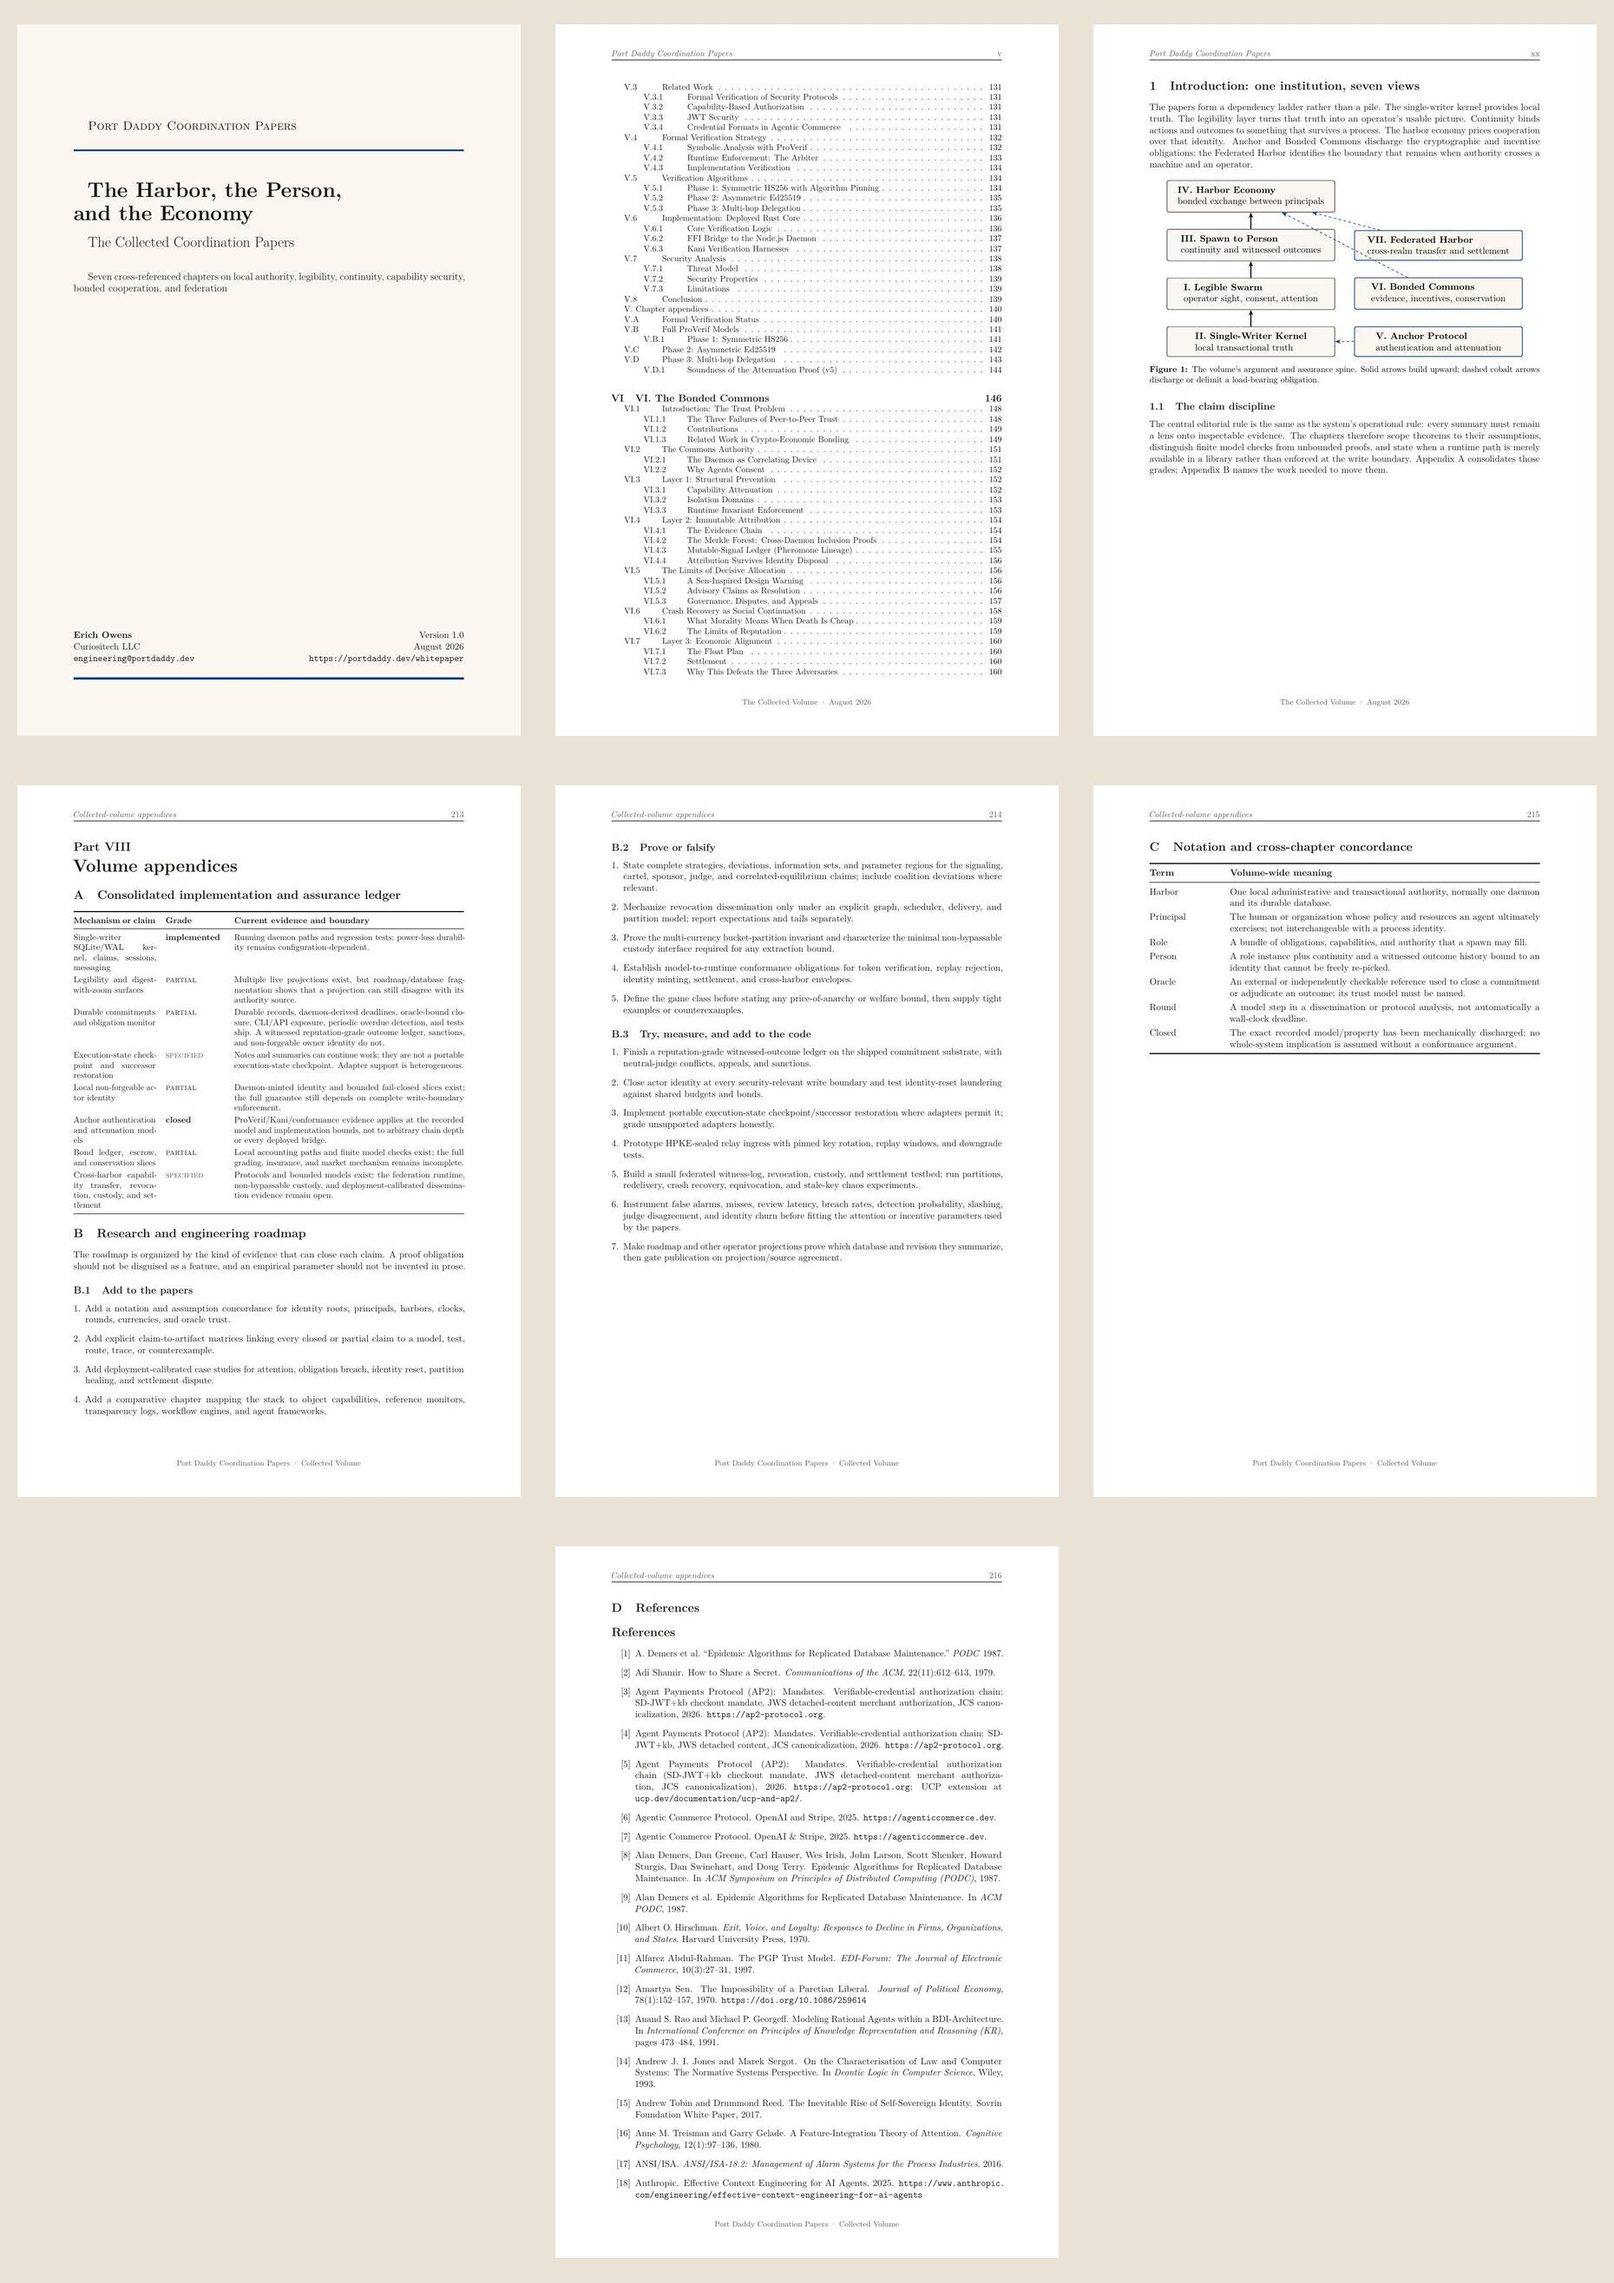
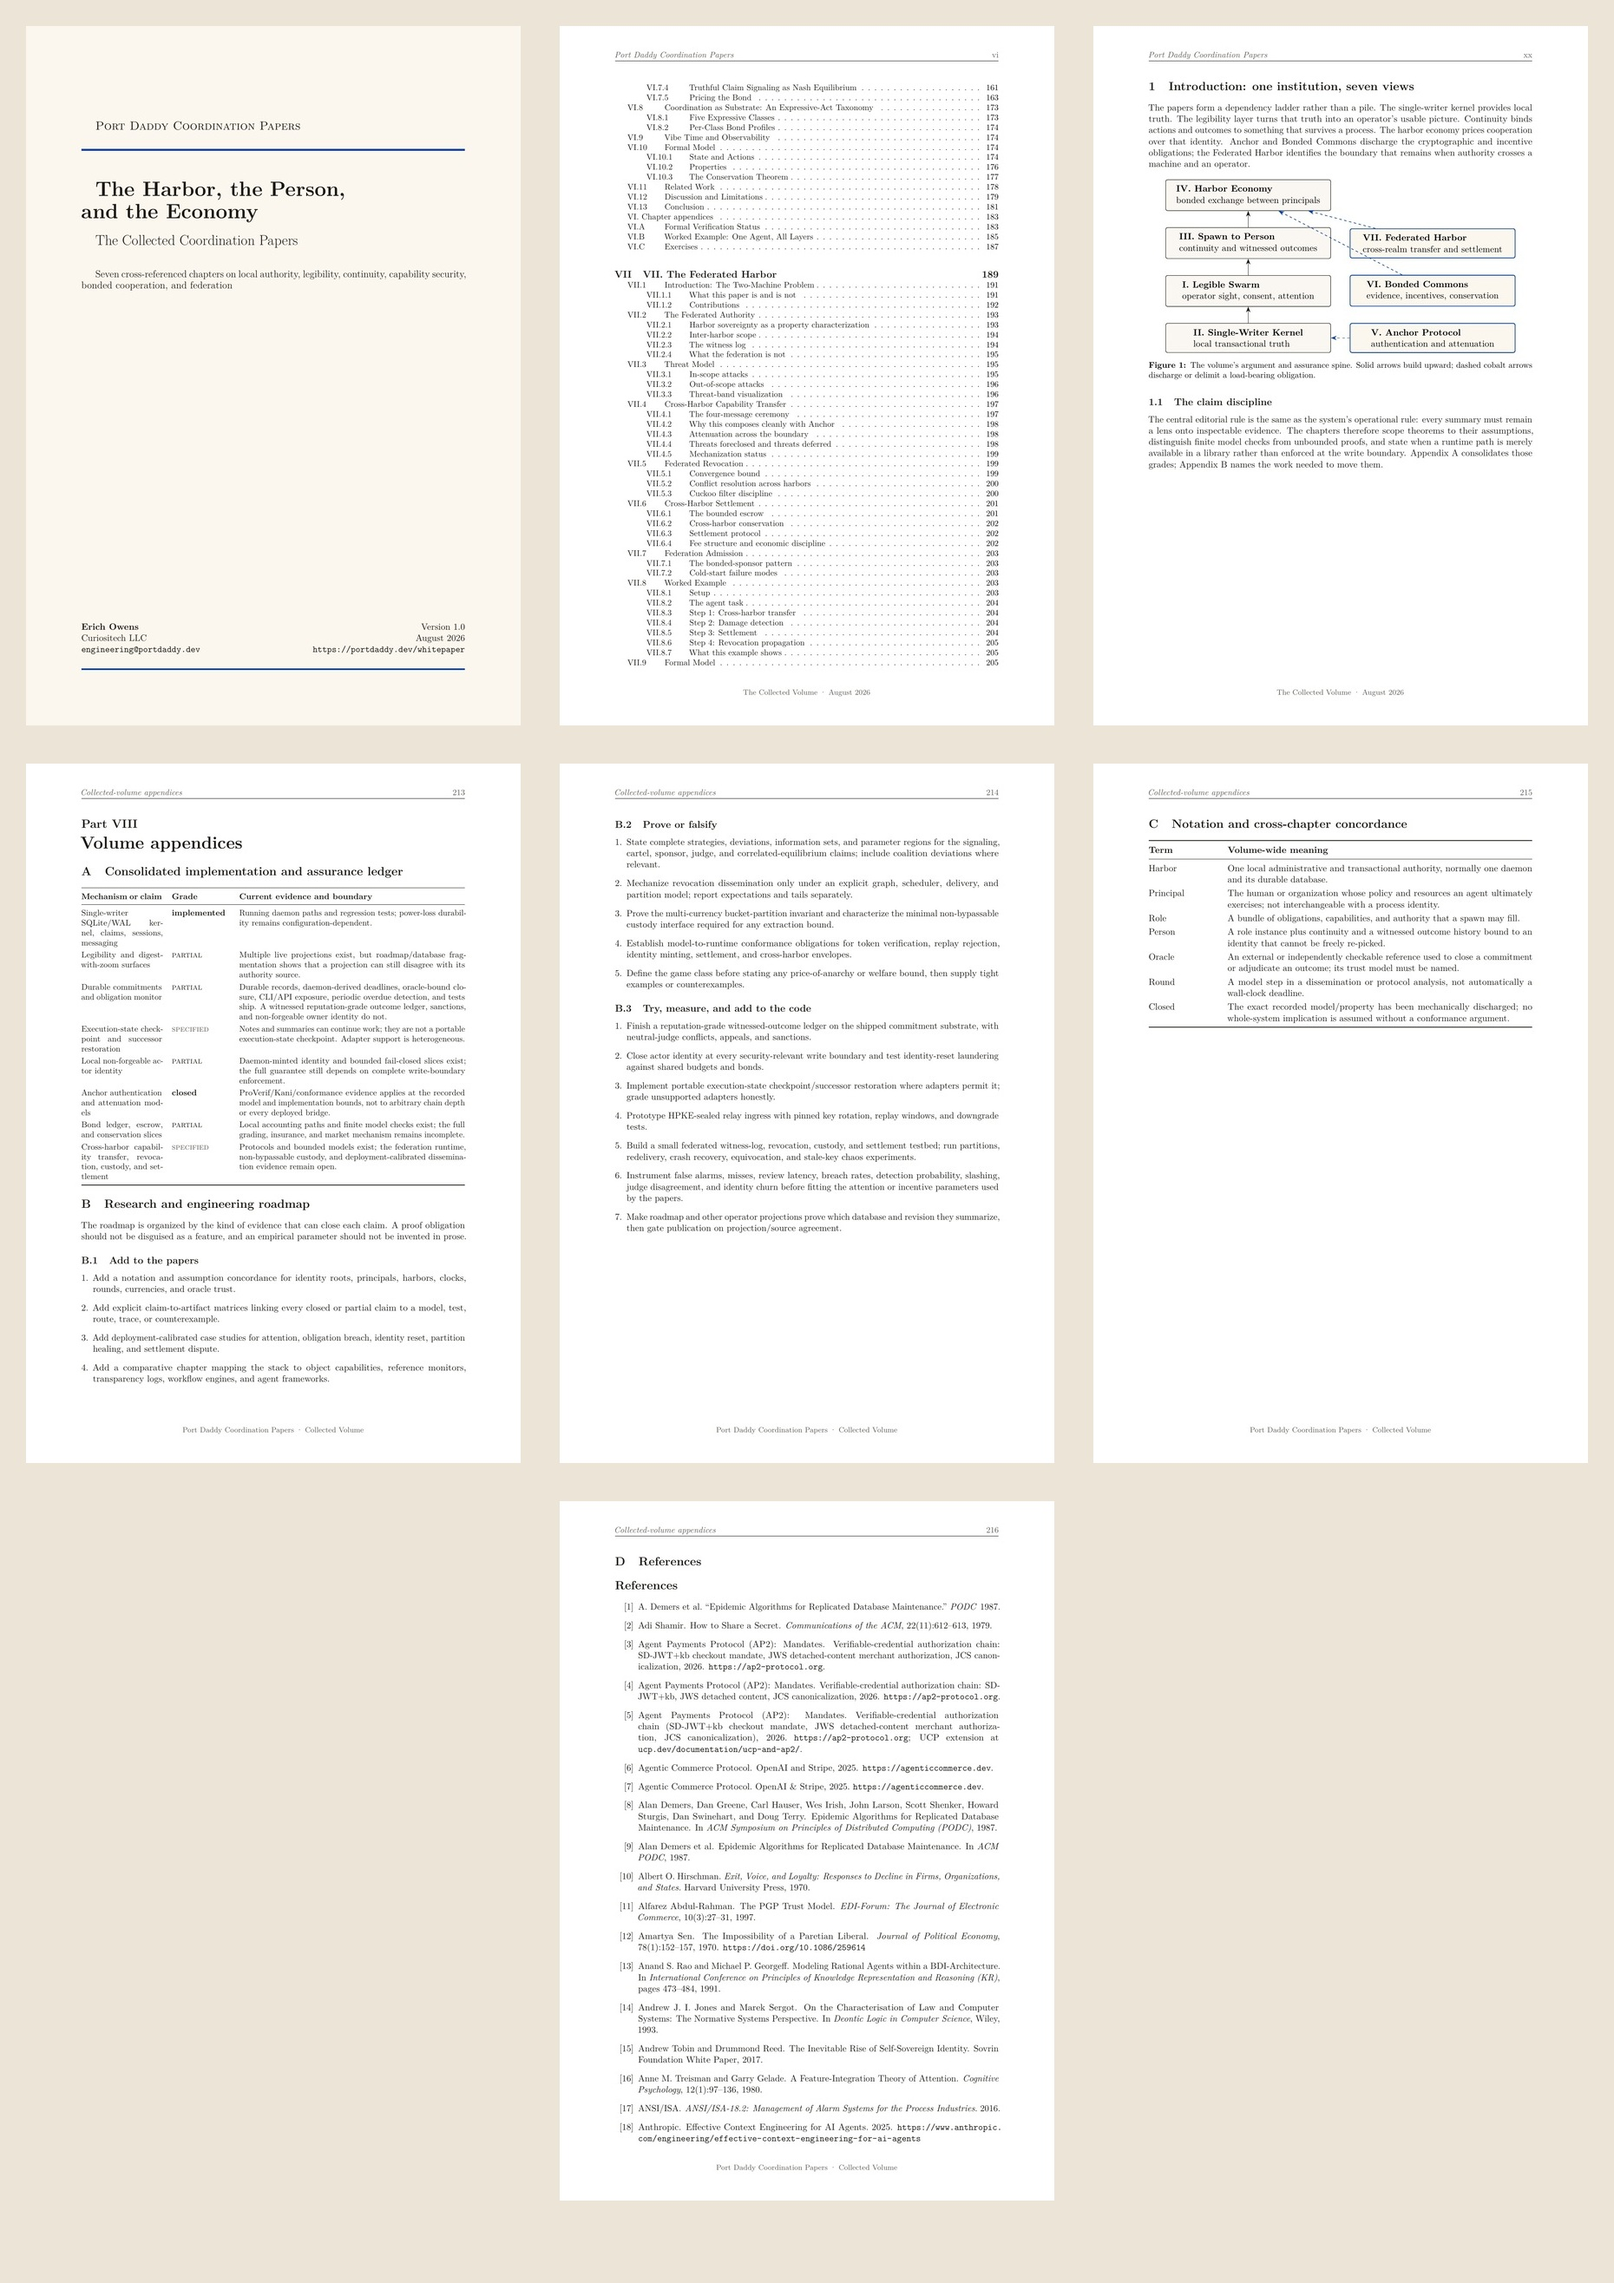
docs(whitepaper): publish collected-volume catalog and roadmap

Changed region(s): [[0.0, 0.0, 0.9978, 0.9973], [0.0624, 0.0623, 0.2183, 0.1247], [0.5925, 0.0312, 0.6237, 0.2805]]

diff --git a/website-v2/src/pages/library/index.tsx b/website-v2/src/pages/library/index.tsx
@@ -15,12 +15,12 @@ import {
   PanelTitle,
 } from '@/components/site/primitives'
 import {
+  COLLECTED_VOLUME,
   EXPLAIN_PAPERS,
   LIBRARY_CHANGELOG,
   LIBRARY_SPINE,
   PROVE_PAPERS,
   READING_PATHS,
-  WHITE_PAPERS,
   findWhitePaperByChapter,
   type WhitePaper,
 } from '@/data/whitePapers'
@@ -163,8 +163,6 @@ function GroupHeading({
 }
 
 export default function LibraryPage() {
-  const totalPages = WHITE_PAPERS.reduce((sum, paper) => sum + paper.pages, 0)
-
   return (
     <motion.div
       initial={{ opacity: 0 }}
@@ -198,7 +196,7 @@ export default function LibraryPage() {
                   {[
                     { value: '04', label: 'chapters explain' },
                     { value: '03', label: 'chapters prove' },
-                    { value: String(totalPages), label: 'pages, free PDFs' },
+                    { value: String(COLLECTED_VOLUME.pages), label: 'pages, collected PDF' },
                   ].map((stat) => (
                     <div key={stat.label} className="space-y-[var(--space-1)]">
                       <div className="font-mono text-[length:var(--text-2xl)] font-black leading-none text-[var(--text-primary)]">
@@ -210,6 +208,32 @@ export default function LibraryPage() {
                     </div>
                   ))}
                 </div>
+
+                <a
+                  href={COLLECTED_VOLUME.pdfPath}
+                  download
+                  className="group grid gap-[var(--space-3)] border-2 border-[var(--border-strong)] bg-[var(--brand-primary)] p-[var(--space-5)] text-[var(--brand-primary-foreground)] shadow-[var(--shadow-brutal)] transition-transform hover:-translate-y-1 focus-visible:outline-2 focus-visible:outline-offset-3 focus-visible:outline-[var(--interactive-focus)] sm:grid-cols-[auto,1fr,auto] sm:items-center"
+                >
+                  <span className="grid h-12 w-12 place-items-center border-2 border-current">
+                    <FileText aria-hidden="true" size={24} />
+                  </span>
+                  <span className="grid gap-[var(--space-1)]">
+                    <span className="font-sans text-[length:var(--type-meta-size)] font-black uppercase tracking-[var(--tracking-meta)]">
+                      Download the collected volume
+                    </span>
+                    <span className="font-display text-[length:var(--text-xl)] font-black leading-[var(--leading-nav)]">
+                      {COLLECTED_VOLUME.title}
+                    </span>
+                    <span className="font-mono text-[length:var(--type-meta-size)] font-semibold uppercase tracking-[var(--tracking-meta)]">
+                      {COLLECTED_VOLUME.pages} pages · {COLLECTED_VOLUME.references} collated references · PDF
+                    </span>
+                  </span>
+                  <ArrowDownRight
+                    aria-hidden="true"
+                    size={24}
+                    className="transition-transform group-hover:translate-x-1 group-hover:translate-y-1"
+                  />
+                </a>
 
                 <div className="flex flex-wrap gap-[var(--space-3)]">
                   <a

diff --git a/website-v2/src/data/whitePapers.ts b/website-v2/src/data/whitePapers.ts
@@ -155,6 +155,30 @@ export interface WhitePaper {
   takeaways: Array<{ title: string; body: string }>
 }
 
+/** The bound edition is a collection of the seven chapters, not an eighth paper. */
+export interface CollectedVolume {
+  id: string
+  title: string
+  subtitle: string
+  pdfPath: string
+  date: string
+  pages: number
+  sizeKb: number
+  references: number
+}
+
+export const COLLECTED_VOLUME: CollectedVolume = {
+  id: 'coordination-papers-mega-volume',
+  title: 'The Port Daddy Coordination Papers',
+  subtitle:
+    'Seven chapters in one coherent volume, with a global introduction, collated contents and references, implementation ledger, notation concordance, and research roadmap.',
+  pdfPath: '/whitepaper/coordination-papers-mega-volume.pdf',
+  date: 'August 2026',
+  pages: 247,
+  sizeKb: 2349,
+  references: 202,
+}
+
 /**
  * A readonly mirror of `WhitePaper` used only as the inference constraint on
  * `defineWhitePapers`. The runtime / consumer-facing type is still
@@ -1100,6 +1124,14 @@ export interface LibraryChangelogEntry {
 }
 
 export const LIBRARY_CHANGELOG: LibraryChangelogEntry[] = [
+  {
+    dateIso: '2026-08-05',
+    date: 'August 5, 2026',
+    title: 'The seven papers publish as one audited collected volume',
+    summary:
+      'The seven chapters now publish together as a 247-page collected volume with a global introduction, coherent table of contents, implementation ledger, research roadmap, notation concordance, and 202 collated references. The companion-paper rigor pass repairs figure legibility, rechecks mathematical assumptions and cross-paper notation, and records implementation claims against repository evidence. Versions: I 1.2, II 1.2, III 1.4, IV 1.3, V 1.4, VI 2.7, VII 1.0.',
+    chapters: ['I', 'II', 'III', 'IV', 'V', 'VI', 'VII'],
+  },
   {
     dateIso: '2026-08-05',
     date: 'August 5, 2026',

diff --git a/website-v2/src/data/whitePapers.test.ts b/website-v2/src/data/whitePapers.test.ts
@@ -11,7 +11,7 @@ import {
   rewriteMetadata,
   type PdfFacts,
 } from '../../scripts/check-whitepaper-metadata'
-import { WHITE_PAPERS } from './whitePapers'
+import { COLLECTED_VOLUME, WHITE_PAPERS } from './whitePapers'
 
 const websiteRoot = resolve(dirname(fileURLToPath(import.meta.url)), '../..')
 const whitePapersSrc = resolve(websiteRoot, 'src/data/whitePapers.ts')
@@ -42,6 +42,22 @@ const whitePapersSrc = resolve(websiteRoot, 'src/data/whitePapers.ts')
  */
 
 describe('whitepaper metadata sync', () => {
+  test('the collected volume is separate from the seven co-equal chapters', () => {
+    expect(WHITE_PAPERS).toHaveLength(7)
+    expect(WHITE_PAPERS.some((paper) => paper.id === COLLECTED_VOLUME.id)).toBe(false)
+  })
+
+  test('the collected volume declares an on-disk PDF', () => {
+    const abs = resolvePdfPath(COLLECTED_VOLUME.pdfPath)
+    expect(existsSync(abs), `collected volume PDF missing at ${abs}`).toBe(true)
+    expect(statSync(abs).size).toBeGreaterThan(10_000)
+  })
+
+  test('collected-volume pages and sizeKb match the actual PDF', () => {
+    if (!pdfinfoAvailable()) return
+    expect(detectDrift([COLLECTED_VOLUME], pdfFactsFromDisk)).toEqual([])
+  })
+
   test('every paper declares an on-disk PDF', () => {
     for (const paper of WHITE_PAPERS) {
       const abs = resolvePdfPath(paper.pdfPath)

diff --git a/website-v2/scripts/check-whitepaper-metadata.ts b/website-v2/scripts/check-whitepaper-metadata.ts
@@ -35,7 +35,11 @@ import { existsSync, readFileSync, statSync, writeFileSync } from 'node:fs'
 import { dirname, resolve } from 'node:path'
 import { fileURLToPath } from 'node:url'
 import { Project, SyntaxKind, type ObjectLiteralExpression } from 'ts-morph'
-import { WHITE_PAPERS } from '../src/data/whitePapers'
+import { COLLECTED_VOLUME, WHITE_PAPERS } from '../src/data/whitePapers'
+
+// The collected volume is a publication artifact, not an eighth chapter, but
+// its page and byte metadata must obey the same drift guard.
+const PUBLISHED_WHITEPAPER_PDFS = [COLLECTED_VOLUME, ...WHITE_PAPERS]
 
 const __dirname = dirname(fileURLToPath(import.meta.url))
 const websiteRoot = resolve(__dirname, '..')
@@ -269,14 +273,16 @@ function main(argv: string[]): number {
 
   let reports: DriftReport[]
   try {
-    reports = detectDrift(WHITE_PAPERS)
+    reports = detectDrift(PUBLISHED_WHITEPAPER_PDFS)
   } catch (err) {
     console.error(`Whitepaper metadata check failed: ${(err as Error).message}`)
     return 1
   }
 
   if (reports.length === 0) {
-    console.log(`Whitepaper metadata in sync (${WHITE_PAPERS.length} papers checked).`)
+    console.log(
+      `Whitepaper metadata in sync (${WHITE_PAPERS.length} chapters + 1 collected volume checked).`,
+    )
     return 0
   }
 

diff --git a/docs/roadmap/whitepaper-research-program.md b/docs/roadmap/whitepaper-research-program.md
@@ -1,6 +1,6 @@
 # Coordination Papers Research and Implementation Program
 
-Updated: 2026-08-04
+Updated: 2026-08-05
 
 Registry authority: `roadmap_items` in harbor `port-daddy`
 
@@ -102,6 +102,20 @@ realization; **proposed** means an open research direction.
 5. Make every roadmap and status projection identify its authority source and fail
    loud on divergence; close the current fragmented-projection class rather than
    reconciling counts by hand.
+6. Make Fleet review resumable at ship and chunk boundaries: checkpoint completed
+   comments and spend, bound GitHub reads/writes, and ensure a retry cannot replay
+   every successful ship after one provider or remote-completion failure.
+7. Apply and verify the production migration for `fleet_run_spend`; fail the
+   deployment check if the executor schema and Worker code disagree.
+8. Turn single-chunk memory ceilings and empty provider responses into explicit,
+   exact-head failure receipts. A tracking label is not a substitute for a
+   completed review when review protection is waiting on Fleet.
+9. Coalesce or discard stale-head deliveries before expensive model work, and
+   make the current head SHA visible in the queue, check-run, and review receipt.
+10. Make Purser fail closed before retargeting a reviewed PR: resolve every
+    referenced path, reject binary-as-text assertions and malformed source
+    escapes, execute the generated tests in the real repository harness, and
+    preserve the original base unless that exact generated branch is green.
 
 ## Current implementation evidence
 
@@ -111,6 +125,9 @@ realization; **proposed** means an open research direction.
 | Local actor identity root | partial | `lib/actor-souls.ts`, actor registration, lookup credential, bounded newcomer pool, and budget-guard tests ship. Universal write-boundary enforcement and legacy migration do not. |
 | Execution checkpoint | partial | Recovery passes durable notes and summaries, not portable execution state. |
 | Cross-operator attestation and federation runtime | specified/proposed | Protocols and bounded models exist; the mutually sovereign deployed path and conformance chain remain open. |
+| Reproducible collected-volume publication | implemented | The deterministic generator fails closed on missing sources, cyclic imports, missing citations, and namespace collisions; the build pins source epochs and produces the seven standalone artifacts plus the collected root. Production publication still requires the receipt below. |
+| Exact-head Fleet publication review | partial | GitHub records a Fleetbot request signal and the executor rejects stale heads, but the August 5 publication run exposed one- and two-chunk memory failures, empty provider responses, replayed work, and a missing production `fleet_run_spend` table. A successful exact-head Fleet receipt remains the closure condition. |
+| Purser adversarial-test gate | partial | Purser can state a useful steel-manned contract and retarget a PR through generated tests, but publication review produced tests that parsed a PDF as HTML, referenced absent files, or used malformed TeX string escapes. The operator rejected those branches; generation is not authoritative until the candidate tests execute successfully before retargeting. |
 
 ## Exit criteria
 
